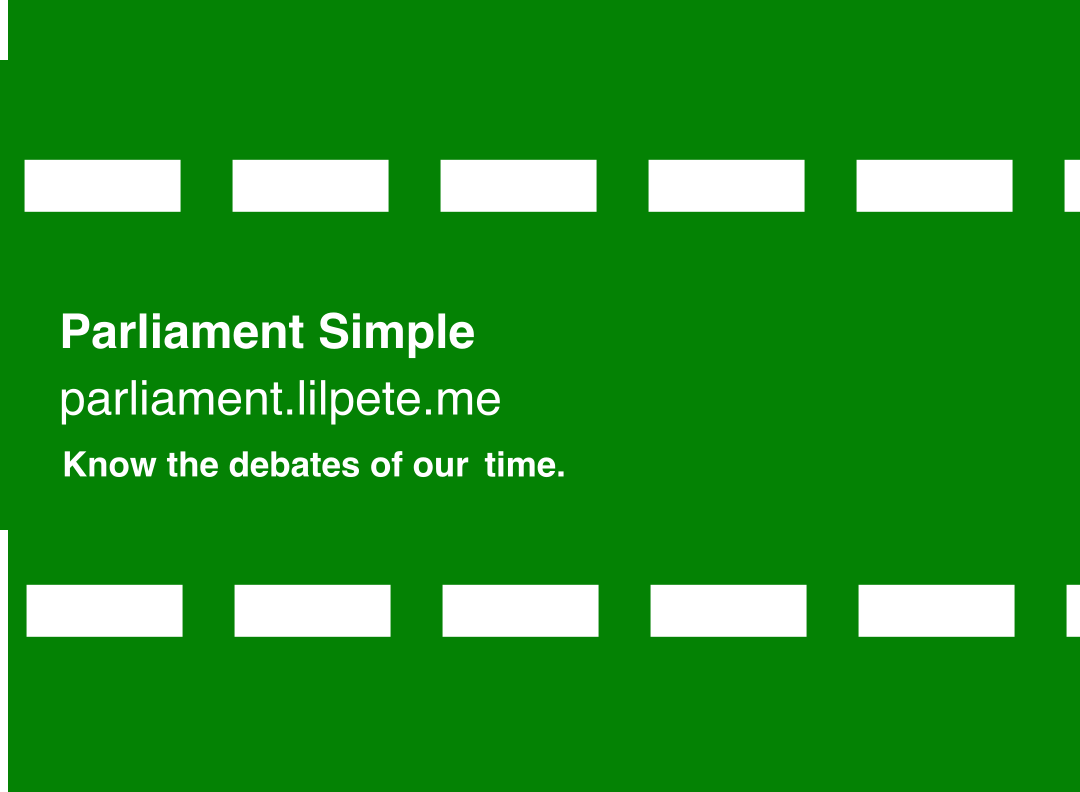
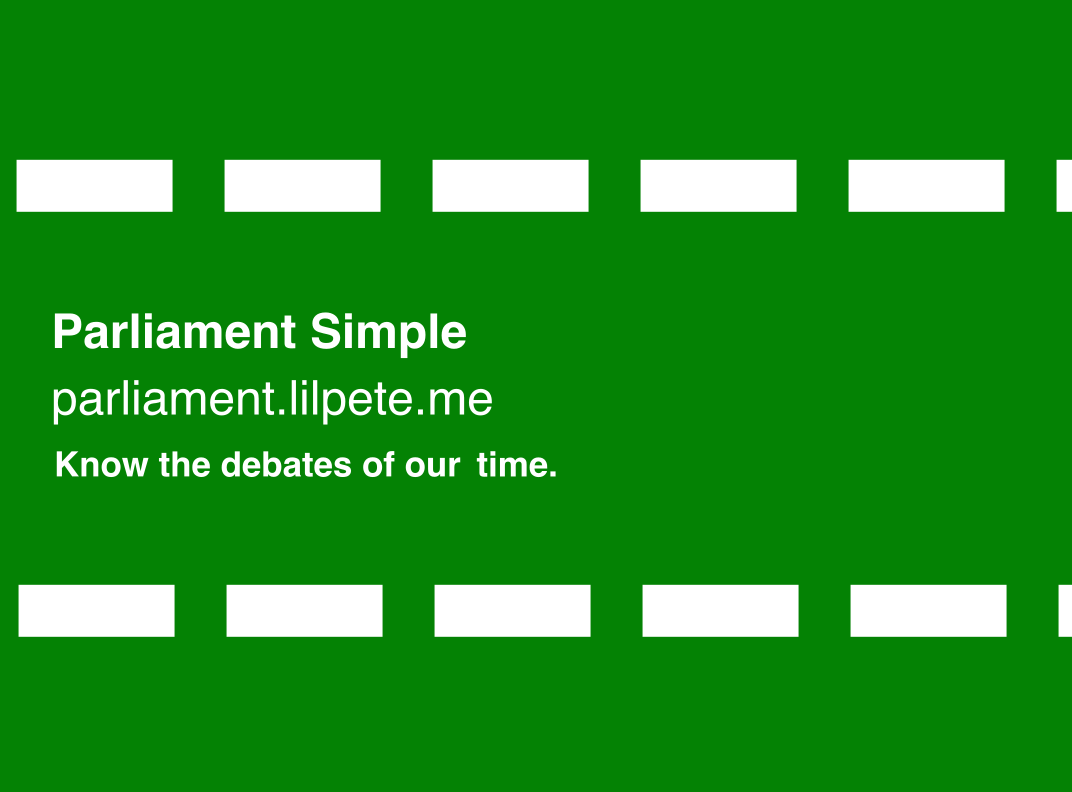
add readme

diff --git a/README.md b/README.md
@@ -1,0 +1,13 @@
+<a href="https://parliament.lilpete.me">
+    <img src="banner.png" style="width: 250px"/>
+</a>
+
+<br/>
+
+# [Parliament Simple](https://parliament.lilpete.me)
+
+## Presenting the most notable debates of the House of Commons and the House of Lords, without spin.
+
+## __Know the debates of our time.__
+
+A project to increase exposure to political debate in a social media age.
